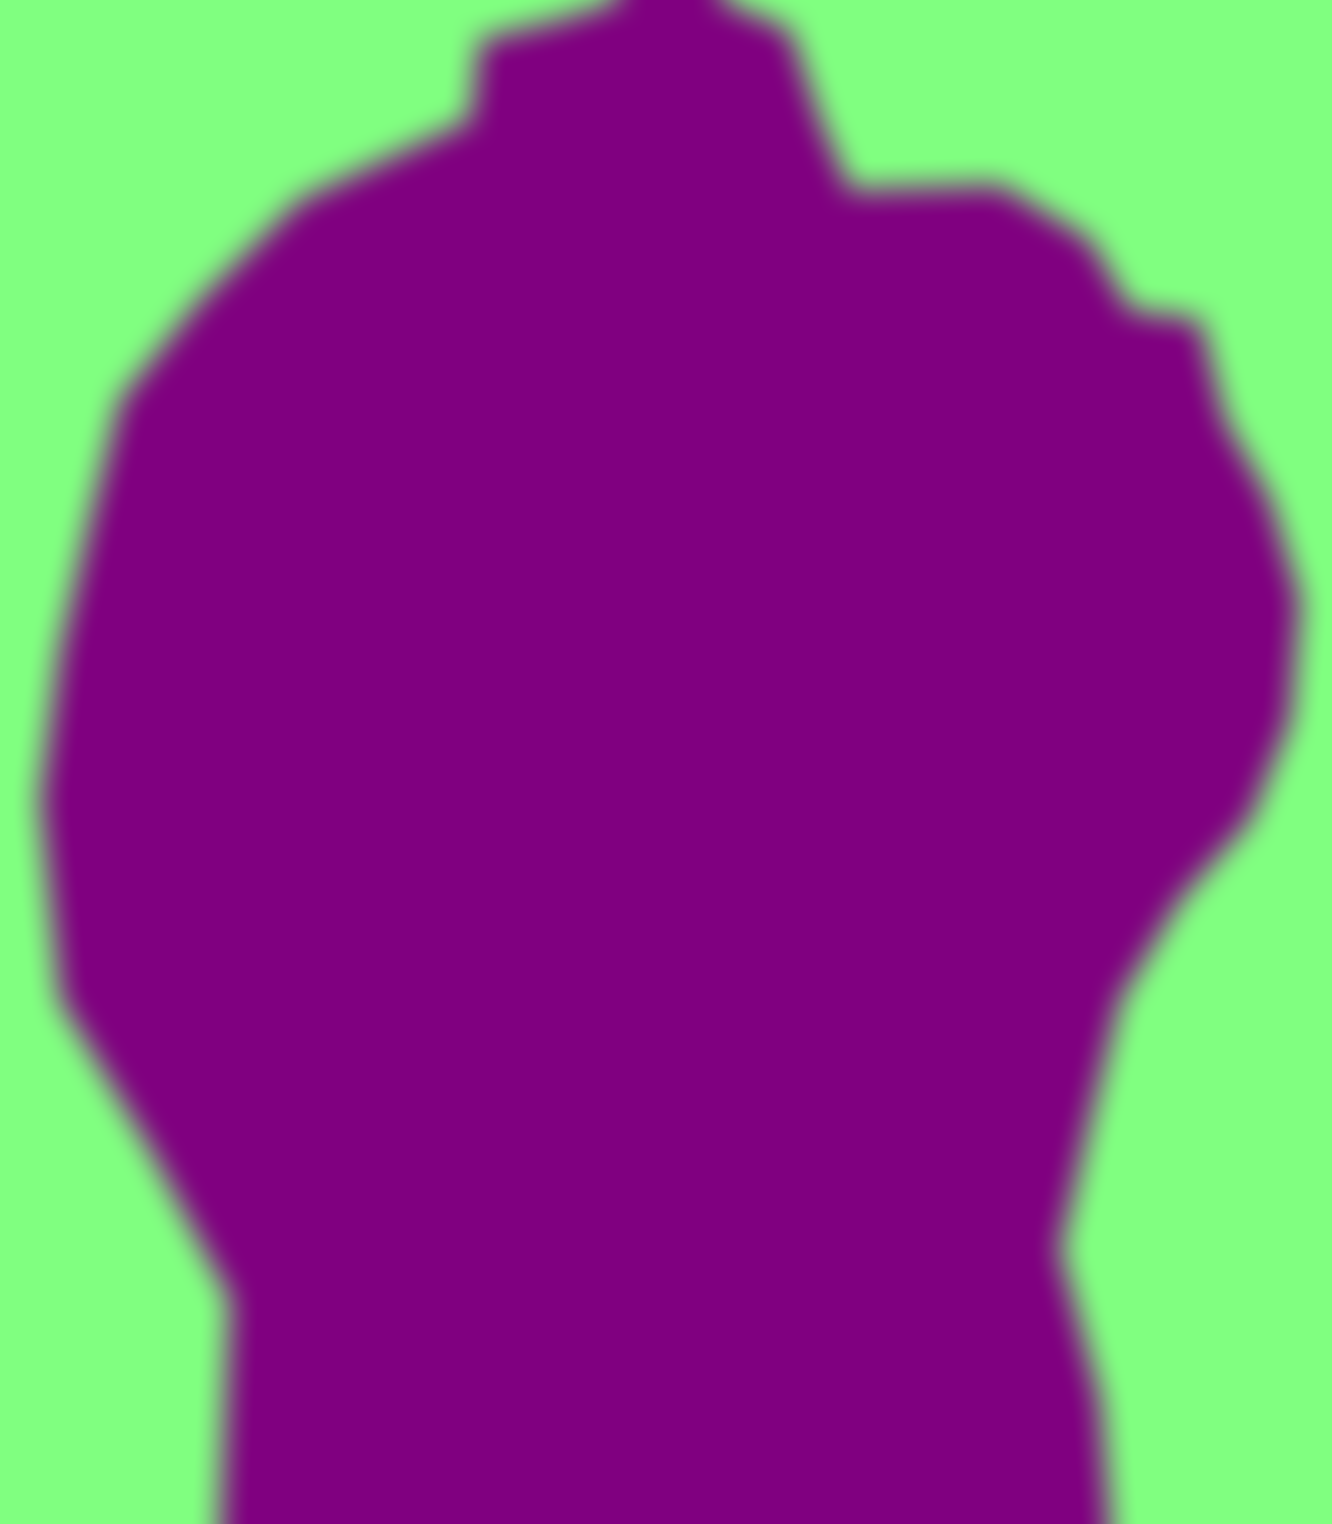
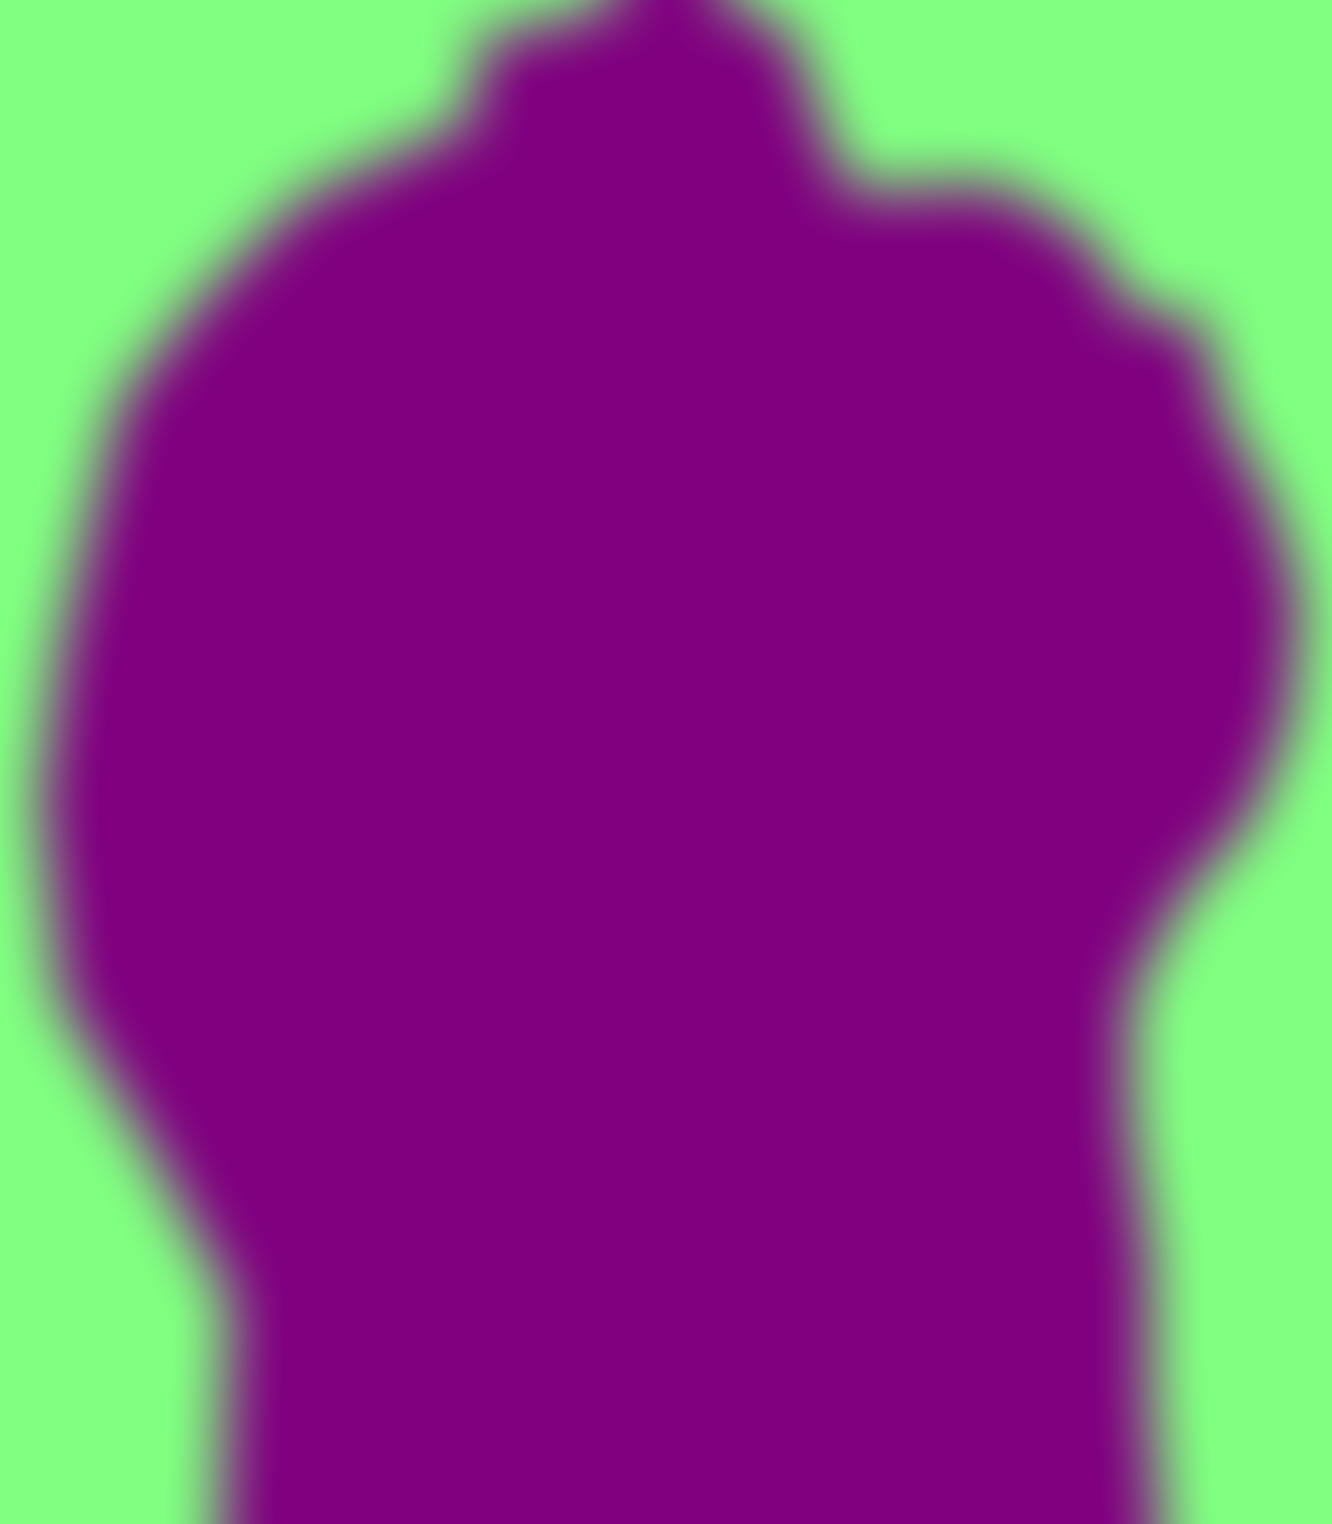
Cloud sea: port the Sacrificial Altar mockup's clouds exactly
User (sandbox look, 2026-11-19): the mist warp from Maelstrom Confluence is
not what the mockup showed; port the mockup's VFX as is.

- map-ambience "clouds": the mockup's own layer. Same 256 px fbm noise and
  colours, same three sheets turning round a pivot below the map with the
  same spin, drift, scale and alpha (mockup numbers ×2, it drew at half
  size), masked by the weight map's mist; an additive copy lifts on a
  strike (MapAmbience.setFlash). Still for reduced motion.
- map-storm: drives that light; "above" also lifts the whole map faintly
  (the mockup's fill, mapFlash 0.1); sky / under-cloud glow at the
  mockup's 0.35 / 0.32.
- Valley_Map029 weight map: the mockup's cliff outline and edge (32 px);
  its clean plate is gone (the altar no longer warps).

Changed region(s): [[0.5233, 0.0, 1.0, 1.0], [0.0, 0.0, 0.4925, 1.0]]

diff --git a/modules/fabula-ultima-companion/scripts/map-system/map-ambience.js b/modules/fabula-ultima-companion/scripts/map-system/map-ambience.js
@@ -21,6 +21,15 @@
  *                                                    light shafts falling from the map's top
  *                                                    edge at x (w wide there, 2.4 w at the
  *                                                    foot), shimmering and swaying slowly
+ *       clouds: { layers: [{ s, spin, dx, dy, a }], pivot: [x, y], density: 1, flash: 0.7 }
+ *                                                    the Sacrificial Altar mockup's cloud sea,
+ *                                                    ported as is: soft fbm noise sheets (made
+ *                                                    here, 256 px, the mockup's colours) that
+ *                                                    turn round pivot (map px) at spin rad/s and
+ *                                                    drift dx, dy px/s, s = map px per noise px,
+ *                                                    a = alpha; drawn only where the walk-depth
+ *                                                    weight map's green says mist; a lightning
+ *                                                    strike (map-storm.js) lifts them additively
  *       motes:  { count: 60, fromMist: true, ember: 0.2 }
  *                                                    fromMist: the specks rise out of the
  *                                                    walk-parallax mist (the weight map's
@@ -101,7 +110,7 @@ void main() {
 
   const state = { cfg: null, root: null, glowLayer: null, frontLayer: null, wisp: null, glows: [], motes: [], tick: null, t0: performance.now(), last: performance.now(),
     cand: null, spores: [], puffs: [], drips: [], dripGfx: null, puffT: 0, dripT: 0, buildId: 0,
-    clipVideos: [], clipTextures: [], shafts: [], mistCand: null };
+    clipVideos: [], clipTextures: [], shafts: [], mistCand: null, clouds: null, flash: 0 };
   let dotTex = null, glowTex = null, sporeTex = null, puffTex = null, whiteGlowTex = null, shaftTex = null;
   const WEIGHT_DIR = "modules/fabula-ultima-companion/assets/walk-depth";
   const EMBER = 0xffaa64;
@@ -213,6 +222,92 @@ void main() {
     }
   }
 
+  // The mockup's cloud noise (altar.js NOISE): 256 px tileable fbm, 4 octaves, lavender,
+  // alpha from a smoothstep of the noise. Random each load, as in the mockup.
+  let cloudTex = null;
+  function cloudTexture() {
+    if (cloudTex && !cloudTex.baseTexture?.destroyed) return cloudTex;
+    const N = 256, c = document.createElement("canvas"); c.width = c.height = N;
+    const x = c.getContext("2d"), img = x.createImageData(N, N);
+    const lerp = (a, b, t) => a + (b - a) * t, sm = (t) => t * t * (3 - 2 * t);
+    const octs = [4, 8, 16, 32].map((p) => ({ p, L: Array.from({ length: p * p }, Math.random) }));
+    const val = (o, xx, yy) => {
+      const f = o.p / N, gx = xx * f, gy = yy * f, x0 = Math.floor(gx), y0 = Math.floor(gy), tx = sm(gx - x0), ty = sm(gy - y0), P = o.p;
+      const at = (i, j) => o.L[((j % P + P) % P) * P + ((i % P + P) % P)];
+      return lerp(lerp(at(x0, y0), at(x0 + 1, y0), tx), lerp(at(x0, y0 + 1), at(x0 + 1, y0 + 1), tx), ty);
+    };
+    for (let yy = 0; yy < N; yy++) for (let xx = 0; xx < N; xx++) {
+      let v = 0, a = 0.5, tot = 0; for (const o of octs) { v += val(o, xx, yy) * a; tot += a; a *= 0.5; } v /= tot;
+      const k = Math.max(0, Math.min(1, (v - 0.38) / 0.42)), al = k * k * (3 - 2 * k), i = (yy * N + xx) * 4, lift = 0.75 + 0.45 * v;
+      img.data[i] = Math.min(255, 150 * lift); img.data[i + 1] = Math.min(255, 134 * lift); img.data[i + 2] = Math.min(255, 186 * lift); img.data[i + 3] = 255 * al;
+    }
+    x.putImageData(img, 0, 0);
+    cloudTex = PIXI.Texture.from(c);
+    cloudTex.baseTexture.wrapMode = PIXI.WRAP_MODES.REPEAT;
+    return cloudTex;
+  }
+
+  // The clouds: two stacks of the same sheets (normal, and additive for a strike), each
+  // masked by the weight map's mist, between the storm's bolts and the glows.
+  function buildClouds(scene, cfg, id) {
+    const key = backdropKey(scene?.background?.src);
+    if (!key) return;
+    const img = new Image();
+    img.onload = () => {
+      if (id !== state.buildId) return;
+      try {
+        const w = img.naturalWidth, h = img.naturalHeight, c = document.createElement("canvas"); c.width = w; c.height = h;
+        const g = c.getContext("2d", { willReadFrequently: true }); g.drawImage(img, 0, 0);
+        const d = g.getImageData(0, 0, w, h);
+        for (let i = 0; i < w * h; i++) { const m = d.data[i * 4 + 1]; d.data[i * 4] = d.data[i * 4 + 1] = d.data[i * 4 + 2] = m; d.data[i * 4 + 3] = 255; }
+        g.putImageData(d, 0, 0);
+        const maskTex = PIXI.Texture.from(c);
+        const dim = canvas.dimensions, tex = cloudTexture();
+        const layers = (Array.isArray(cfg.layers) ? cfg.layers : []).map((L) => ({ s: +L.s || 2, spin: +L.spin || 0, dx: +L.dx || 0, dy: +L.dy || 0, a: Number.isFinite(+L.a) ? +L.a : 0.4 }));
+        const pivot = Array.isArray(cfg.pivot) ? [+cfg.pivot[0], +cfg.pivot[1]] : [dim.sceneWidth / 2, dim.sceneHeight * 0.9];
+        const stack = (add) => {
+          const box = new PIXI.Container();
+          box.elevation = 0; box.sortLayer = PrimaryCanvasGroup.SORT_LAYERS.TOKENS; box.sort = SORT_BEHIND - 0.5; box.eventMode = "none";
+          box.position.set(dim.sceneX, dim.sceneY);
+          const sprites = layers.map((L) => {
+            const t = new PIXI.TilingSprite(tex, dim.sceneWidth, dim.sceneHeight);
+            t.alpha = L.a * (Number(cfg.density) || 1);
+            if (add) t.blendMode = PIXI.BLEND_MODES.ADD;
+            box.addChild(t);
+            return t;
+          });
+          const mask = new PIXI.Sprite(maskTex); mask.width = dim.sceneWidth; mask.height = dim.sceneHeight;
+          box.addChild(mask); box.mask = mask;
+          canvas.primary.addChild(box);
+          return { box, sprites };
+        };
+        state.clouds = { layers, pivot, normal: stack(false), lit: stack(true), flashK: Number.isFinite(+cfg.flash) ? +cfg.flash : 0.7, maskTex };
+        state.clouds.lit.box.alpha = 0;
+        placeClouds((performance.now() - state.t0) / 1000);
+      } catch (e) { console.warn(TAG, "clouds failed", e); }
+    };
+    img.onerror = () => { if (id === state.buildId) console.warn(TAG, `no weight map for ${key}; no clouds`); };
+    img.src = `${WEIGHT_DIR}/${key}.webp`;
+  }
+
+  // The mockup's pattern transform: translate(P) rotate(spin t) translate(-P + drift t) scale(s).
+  function placeClouds(t) {
+    const C = state.clouds; if (!C) return;
+    const still = reduceMotion(), sec = still ? 0 : t;
+    C.layers.forEach((L, i) => {
+      const th = sec * L.spin, cs = Math.cos(th), sn = Math.sin(th);
+      const ex = sec * L.dx - C.pivot[0], ey = sec * L.dy - C.pivot[1];
+      const px = C.pivot[0] + cs * ex - sn * ey, py = C.pivot[1] + sn * ex + cs * ey;
+      for (const st of [C.normal, C.lit]) {
+        const sp = st.sprites[i]; if (!sp || sp.destroyed) continue;
+        sp.tileTransform.position.set(px, py);
+        sp.tileTransform.rotation = th;
+        sp.tileTransform.scale.set(L.s, L.s);
+      }
+    });
+    C.lit.box.alpha = Math.min(1, state.flash * C.flashK);
+  }
+
   // Where the walk-parallax mist is (the weight map's green), for motes that rise out of it.
   function loadMistCandidates(scene, id) {
     const key = backdropKey(scene?.background?.src);
@@ -254,7 +349,9 @@ void main() {
 
   function teardown() {
     if (state.tick) { try { canvas.app.ticker.remove(state.tick); } catch (_) {} state.tick = null; }
-    for (const c of [state.glowLayer, state.frontLayer, state.wisp]) { try { c?.parent?.removeChild(c); c?.destroy({ children: true }); } catch (_) {} }
+    for (const c of [state.glowLayer, state.frontLayer, state.wisp, state.clouds?.normal?.box, state.clouds?.lit?.box]) { try { c?.parent?.removeChild(c); c?.destroy({ children: true }); } catch (_) {} }
+    try { state.clouds?.maskTex?.destroy(true); } catch (_) {}
+    state.clouds = null; state.flash = 0;
     state.glowLayer = state.frontLayer = state.wisp = null;
     for (const v of state.clipVideos) { try { v.pause(); v.removeAttribute("src"); v.load(); } catch (_) {} }
     for (const t of state.clipTextures) { try { t.destroy(true); } catch (_) {} }
@@ -331,6 +428,9 @@ void main() {
       state.glowLayer.addChild(s);
       state.glows.push({ s, x, y, i, tile: bobOffset(x, y), flicker: e.flicker === true, peak: e.alpha });
     });
+
+    // the cloud sea (Sacrificial Altar mockup), still for reduced motion
+    if (cfg.clouds && Array.isArray(cfg.clouds.layers) && cfg.clouds.layers.length) buildClouds(scene, cfg.clouds, state.buildId);
 
     // light shafts from the top edge
     if (cfg.shafts && Array.isArray(cfg.shafts.items)) {
@@ -550,6 +650,8 @@ void main() {
         m.sprite.alpha = (m.ember ? 0.8 : m.sig ? MOTE.sigilAlpha : MOTE.alpha) * fade * tw;
       }
 
+      placeClouds(t);
+
       for (const s of state.shafts) {
         if (s.plane.destroyed) continue;
         const a = still ? s.alpha : s.alpha * (0.5 + 0.5 * (0.5 + 0.5 * Math.sin(t / 2.6 + s.ph)));
@@ -583,6 +685,10 @@ void main() {
     }
   });
 
-  window.oni.MapAmbience = { installed: true, rebuild: build, FLAG };
+  window.oni.MapAmbience = {
+    installed: true, rebuild: build, FLAG,
+    /** A lightning strike's light on the clouds right now, 0..1 (map-storm.js, every frame of a strike). */
+    setFlash: (v) => { state.flash = Math.max(0, Math.min(1.5, Number(v) || 0)); }
+  };
   console.debug(TAG, "Installed. API: window.oni.MapAmbience");
 })();

diff --git a/modules/fabula-ultima-companion/scripts/map-system/map-storm.js b/modules/fabula-ultima-companion/scripts/map-system/map-storm.js
@@ -56,8 +56,9 @@ function flashEl() {
 
 function teardown() {
   if (state.tick) { try { canvas.app.ticker.remove(state.tick); } catch { /* */ } state.tick = null; }
-  if (state.layer) { try { state.layer.parent?.removeChild(state.layer); state.layer.destroy({ children: true }); } catch { /* */ } }
-  state.layer = state.gfx = null; state.strikes = []; state.cfg = null;
+  for (const c of [state.layer, state.tint]) { if (c) { try { c.parent?.removeChild(c); c.destroy({ children: true }); } catch { /* */ } } }
+  state.layer = state.gfx = state.tint = null; state.strikes = []; state.cfg = null;
+  try { window.oni?.MapAmbience?.setFlash?.(0); } catch { /* */ }
   document.getElementById(FLASH_ID)?.style.setProperty("opacity", "0");
   try { globalThis.FUCompanion?.api?.walkParallax?.setFlash?.(0); } catch { /* */ }
 }
@@ -76,6 +77,16 @@ function build() {
   state.layer = layer;
   state.gfx = new PIXI.Graphics(); state.gfx.blendMode = PIXI.BLEND_MODES.ADD;
   layer.addChild(state.gfx);
+
+  // The whole map lifts faintly violet on a strike (the mockup's map fill), under everything else here.
+  if (cfg.mapFlash > 0) {
+    const d = canvas.dimensions, t = new PIXI.Graphics();
+    t.beginFill(0xb9a6ff).drawRect(d.sceneX, d.sceneY, d.sceneWidth, d.sceneHeight).endFill();
+    t.blendMode = PIXI.BLEND_MODES.ADD; t.alpha = 0;
+    t.elevation = 0; t.sortLayer = PrimaryCanvasGroup.SORT_LAYERS.TOKENS; t.sort = SORT_BEHIND - 2; t.eventMode = "none";
+    canvas.primary.addChild(t);
+    state.tint = t;
+  }
 
   // The ground's outline cut out of the sky: bolts and their glow stay behind it.
   if (cfg.solid) {
@@ -138,7 +149,7 @@ function tick() {
       if (ms > patternLength(s.pat) + 40) { s.glow?.destroy(); return false; }
       const k = levelAt(s.pat, ms);
       flash = Math.max(flash, k * (s.sheet && cfg.mode === "above" ? 0.55 : 1));
-      s.glow.alpha = (cfg.mode === "below" ? 0.22 : s.sheet ? 0.3 : 0.38) * k;
+      s.glow.alpha = (cfg.mode === "below" ? 0.32 : 0.35) * k;   // the mockup's sky / under-cloud glow
       if (s.bolt && k > 0.01) {
         const line = (pts, w, color, a) => { gfx.lineStyle({ width: w, color, alpha: a, join: "round", cap: "round" }); gfx.moveTo(pts[0][0], pts[0][1]); for (let i = 1; i < pts.length; i++) gfx.lineTo(pts[i][0], pts[i][1]); };
         line(s.bolt.main, 10, 0xb496ff, 0.25 * k);               // outer glow
@@ -150,6 +161,8 @@ function tick() {
     });
 
     try { globalThis.FUCompanion?.api?.walkParallax?.setFlash?.(flash * cfg.mist); } catch { /* */ }
+    try { window.oni?.MapAmbience?.setFlash?.(flash); } catch { /* */ }   // the cloud sea's light
+    if (state.tint && !state.tint.destroyed) state.tint.alpha = flash * cfg.mapFlash;
     const el = cfg.flash > 0 && !reduceMotion() ? flashEl() : null;
     if (el) el.style.opacity = String(flash * cfg.flash);
   } catch (e) {

diff --git a/modules/fabula-ultima-companion/scripts/map-system/map-storm-core.js b/modules/fabula-ultima-companion/scripts/map-system/map-storm-core.js
@@ -29,8 +29,8 @@
 export const DEFAULT_SOUNDS = [1, 3, 5, 7, 9].map((n) => `https://assets.forge-vtt.com/610d918102e7ac281373ffcb/Sound/Soundboard/Thunder${n}.ogg`);
 
 const DEFAULTS = Object.freeze({
-  above: { every: [6, 14], flash: 0.16, mist: 0.9, volume: 0.45, rate: [0.82, 1], delay: [300, 1600], sheetDelay: [900, 2200] },
-  below: { every: [7, 16], flash: 0.07, mist: 1.1, volume: 0.22, rate: [0.66, 0.78], delay: [500, 1700], sheetDelay: [500, 1700] }
+  above: { every: [6, 14], flash: 0.16, mist: 0.9, mapFlash: 0.1, volume: 0.45, rate: [0.82, 1], delay: [300, 1600], sheetDelay: [900, 2200] },
+  below: { every: [7, 16], flash: 0.07, mist: 1.1, mapFlash: 0, volume: 0.22, rate: [0.66, 0.78], delay: [500, 1700], sheetDelay: [500, 1700] }
 });
 
 const num = (v, d) => (Number.isFinite(Number(v)) ? Number(v) : d);
@@ -56,6 +56,7 @@ export function readStormConfig(raw) {
     solid: mode === "above" ? solid : null,
     flash: Math.max(0, Math.min(0.6, num(raw.flash, D.flash))),
     mist: Math.max(0, Math.min(1.5, num(raw.mist, D.mist))),
+    mapFlash: Math.max(0, Math.min(0.5, num(raw.mapFlash, D.mapFlash))),
     sounds: Array.isArray(raw.sounds) && raw.sounds.length ? raw.sounds.filter((s) => typeof s === "string" && s) : DEFAULT_SOUNDS,
     volume: Math.max(0, Math.min(1, num(raw.volume, D.volume))),
     rate: D.rate,
